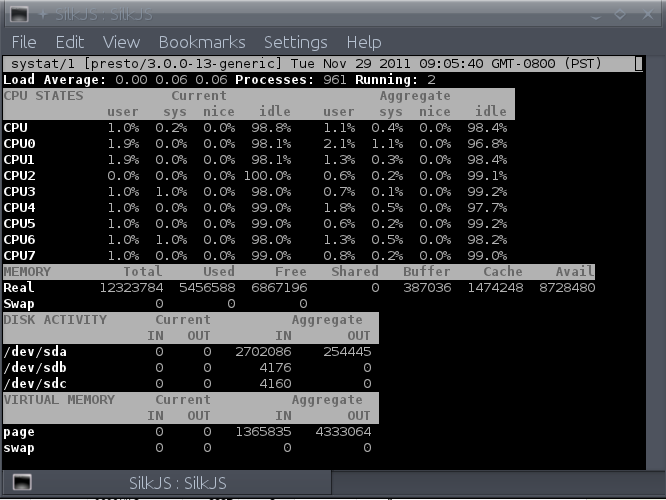
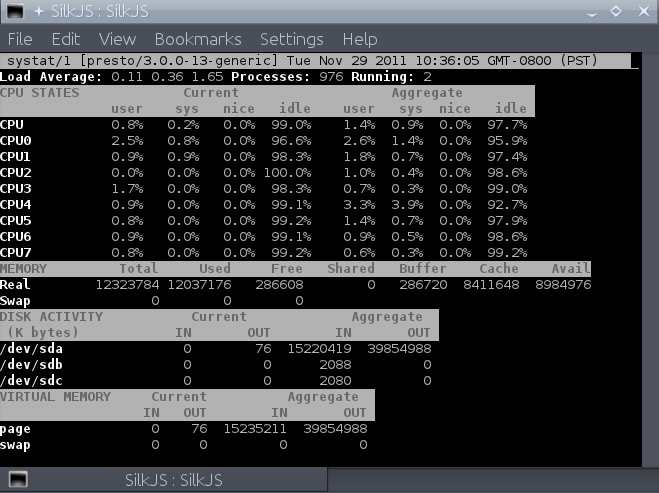
Improved systat.js New screenshot.

Changed region(s): [[0.0, 0.0, 1.0, 1.0]]

diff --git a/examples/systat.js b/examples/systat.js
@@ -225,7 +225,7 @@ function PrintDisk() {
 	move(row++, 0);
 	printw('DISK ACTIVITY           Current             Aggregate  ');
 	move(row++, 0);
-	printw(' (sectors)            IN       OUT        IN       OUT ');
+	printw(' (K bytes)            IN       OUT        IN       OUT ');
 	attroff(A_BOLD); attroff(A_STANDOUT);
 	
 	var lines = fs.readFile('/proc/diskstats').split('\n');
@@ -250,7 +250,7 @@ function PrintDisk() {
 		var writes = parseInt(arr[9], 10);
 		var deltaWrites = writes - disk_writes[drive];
 		disk_writes[drive] = writes;
-		printw(sprintf('%8d  %8d  %8d  %8d', deltaReads, deltaWrites, reads, writes));
+		printw(sprintf('%8d  %8d  %8d  %8d', deltaReads*512/1024, deltaWrites*512/1024, reads*512/1024, writes*512/1024));
 		clearEol();
 	});
 }
